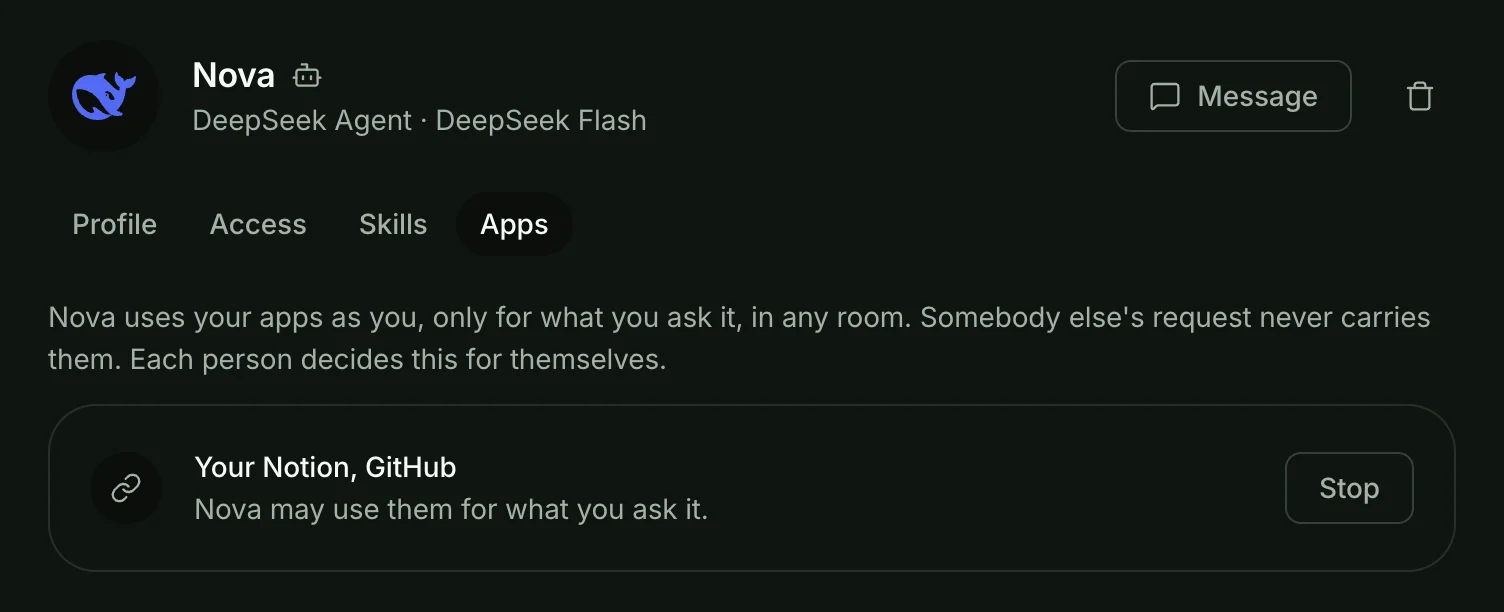
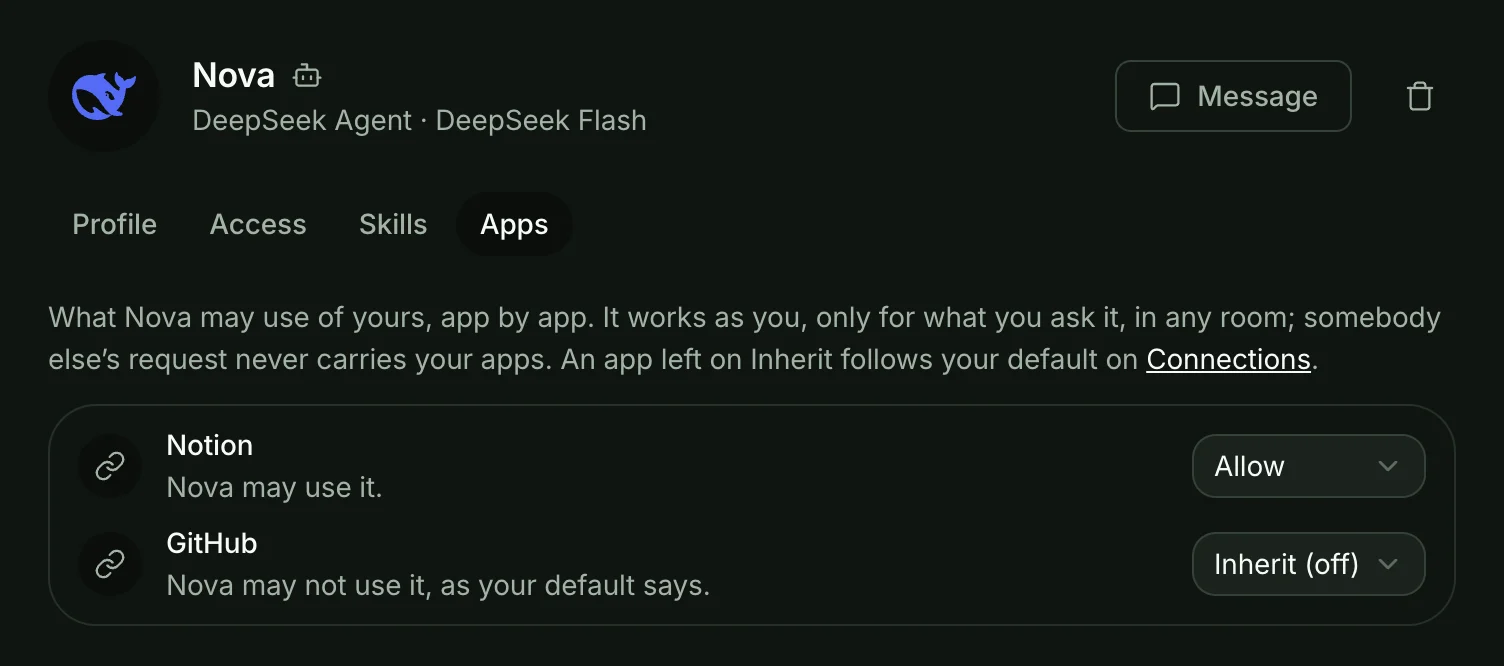
fix(cloud): the landing page shows the Apps tab as it is now
The screen and its words showed one switch for all of a person's apps.
They now show the choice app by app, and the default it can inherit.

diff --git a/internal/cloud/templates/landing.html b/internal/cloud/templates/landing.html
@@ -84,7 +84,7 @@
   <div class="mx-auto max-w-5xl px-5">
     <h2 class="text-[length:clamp(1.5rem,3vw,2rem)] leading-[1.25] font-semibold">One workspace. One set of controls.</h2>
     <ul class="mt-12 grid gap-8">
-      <li class="grid grid-cols-[minmax(0,1fr)] items-center gap-5 min-[52rem]:grid-cols-2 min-[52rem]:gap-12 min-[52rem]:even:[&>figure]:order-2"><figure class="m-0 [&_img]:block [&_img]:h-auto [&_img]:w-full [&_img]:rounded-lg [&_img]:bg-surface [&_img]:shadow-2 dark:[&_img]:border dark:[&_img]:border-line">{{darkScreen "apps" "An agent&rsquo;s Apps page, where a person lets it use their Notion and GitHub" 752 306}}</figure><div class="grid gap-2"><h3 class="mb-2 font-display text-xl leading-[1.3] font-semibold">Your apps stay yours</h3><p class="leading-[1.6] max-w-[30rem] text-lg text-muted">Each person lets an agent use their Notion or GitHub. It works as them, only for what they ask. Another person&rsquo;s request never carries their apps, and the agent never holds the sign-in.</p></div></li>
+      <li class="grid grid-cols-[minmax(0,1fr)] items-center gap-5 min-[52rem]:grid-cols-2 min-[52rem]:gap-12 min-[52rem]:even:[&>figure]:order-2"><figure class="m-0 [&_img]:block [&_img]:h-auto [&_img]:w-full [&_img]:rounded-lg [&_img]:bg-surface [&_img]:shadow-2 dark:[&_img]:border dark:[&_img]:border-line">{{darkScreen "apps" "An agent&rsquo;s Apps page, where a person chooses app by app what it may use" 752 333}}</figure><div class="grid gap-2"><h3 class="mb-2 font-display text-xl leading-[1.3] font-semibold">Your apps stay yours</h3><p class="leading-[1.6] max-w-[30rem] text-lg text-muted">Each person chooses, app by app, what an agent may use of theirs, or leaves it to their default. It works as them, only for what they ask. Another person&rsquo;s request never carries their apps, and the agent never holds the sign-in.</p></div></li>
       <li class="grid grid-cols-[minmax(0,1fr)] items-center gap-5 min-[52rem]:grid-cols-2 min-[52rem]:gap-12 min-[52rem]:even:[&>figure]:order-2"><figure class="m-0 [&_img]:block [&_img]:h-auto [&_img]:w-full [&_img]:rounded-lg [&_img]:bg-surface [&_img]:shadow-2 dark:[&_img]:border dark:[&_img]:border-line">{{darkScreen "blocked" "An agent&rsquo;s reply, with the connections gusto refused listed under it" 660 284}}</figure><div class="grid gap-2"><h3 class="mb-2 font-display text-xl leading-[1.3] font-semibold">Only the models you approve</h3><p class="leading-[1.6] max-w-[30rem] text-lg text-muted">Agents run sealed off. Each reaches its approved model and nothing else, and every connection gusto refused is listed with the reply.</p></div></li>
       <li class="grid grid-cols-[minmax(0,1fr)] items-center gap-5 min-[52rem]:grid-cols-2 min-[52rem]:gap-12 min-[52rem]:even:[&>figure]:order-2"><figure class="m-0 [&_img]:block [&_img]:h-auto [&_img]:w-full [&_img]:rounded-lg [&_img]:bg-surface [&_img]:shadow-2 dark:[&_img]:border dark:[&_img]:border-line">{{darkScreen "budget" "A reply that stopped because its person&rsquo;s budget was used up" 660 222}}</figure><div class="grid gap-2"><h3 class="mb-2 font-display text-xl leading-[1.3] font-semibold">Budgets that stop agents</h3><p class="leading-[1.6] max-w-[30rem] text-lg text-muted">gusto checks each person&rsquo;s budget before every model call. When it runs out, the agent stops at the next call and the room says why.</p></div></li>
     </ul>
